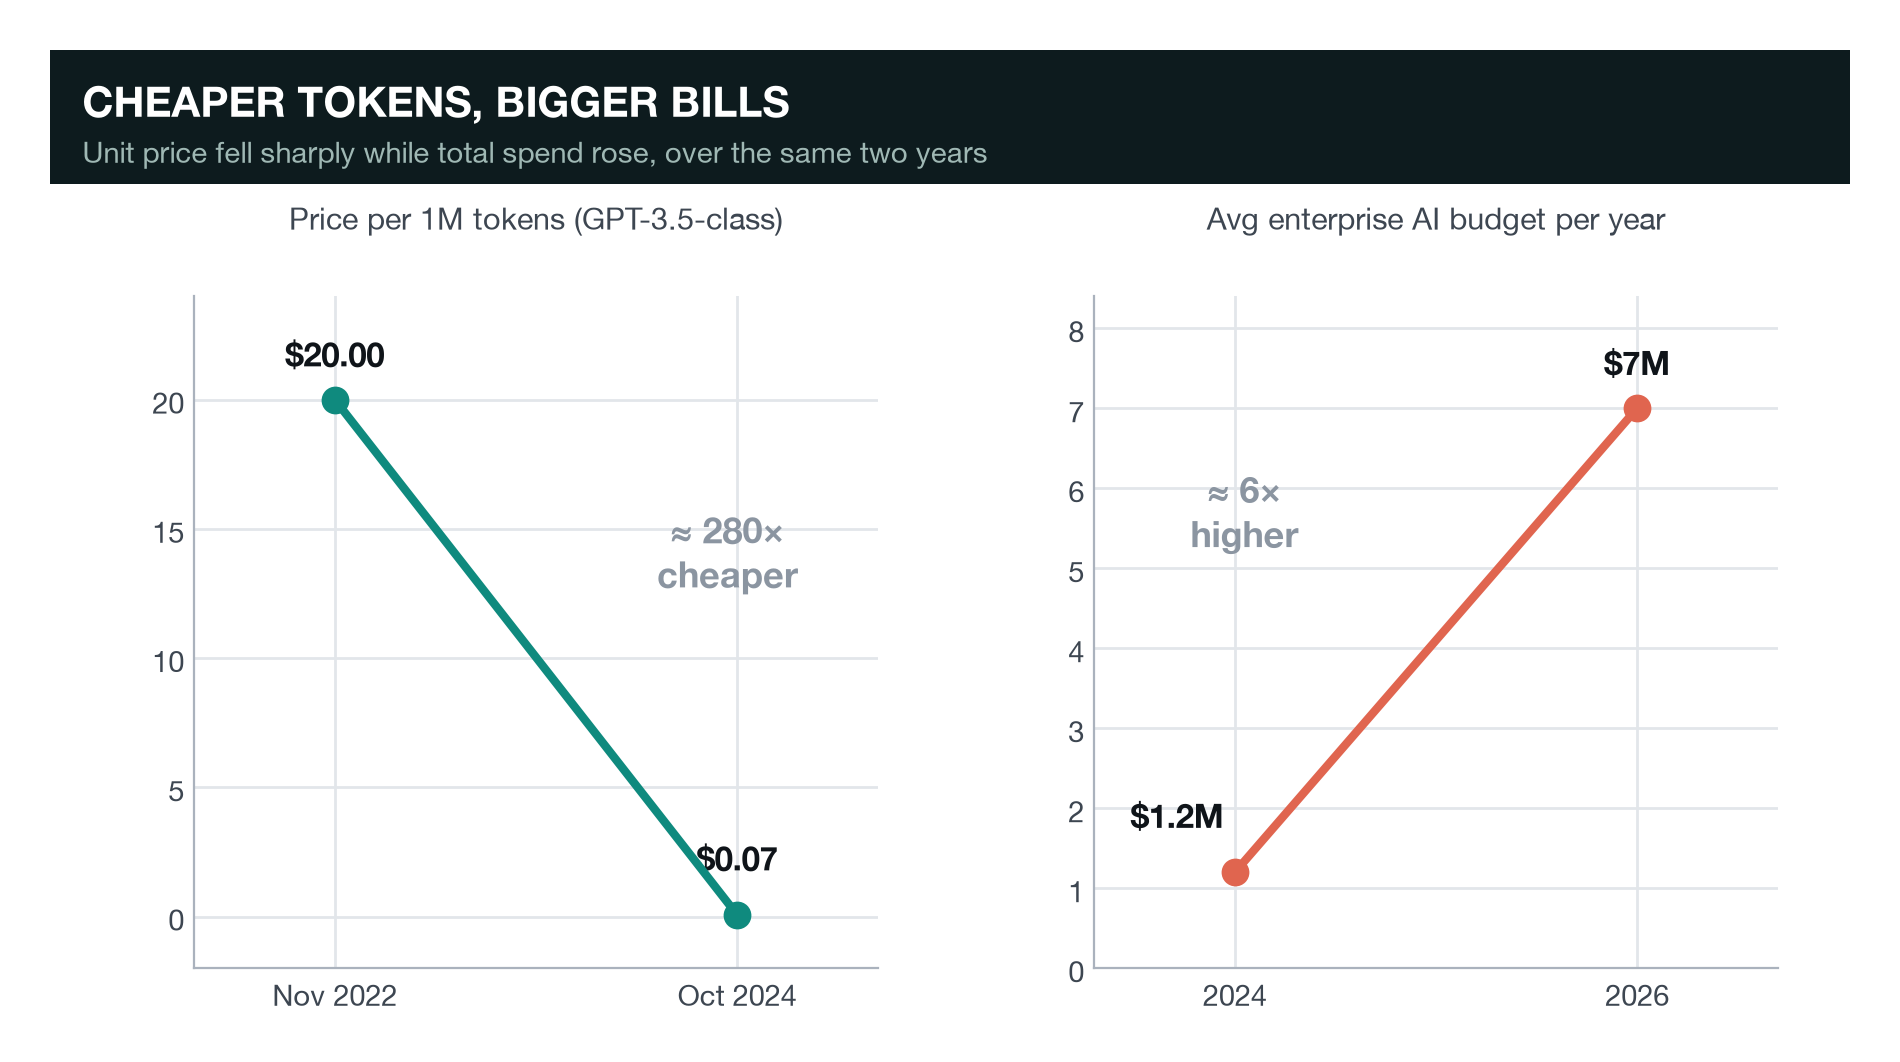
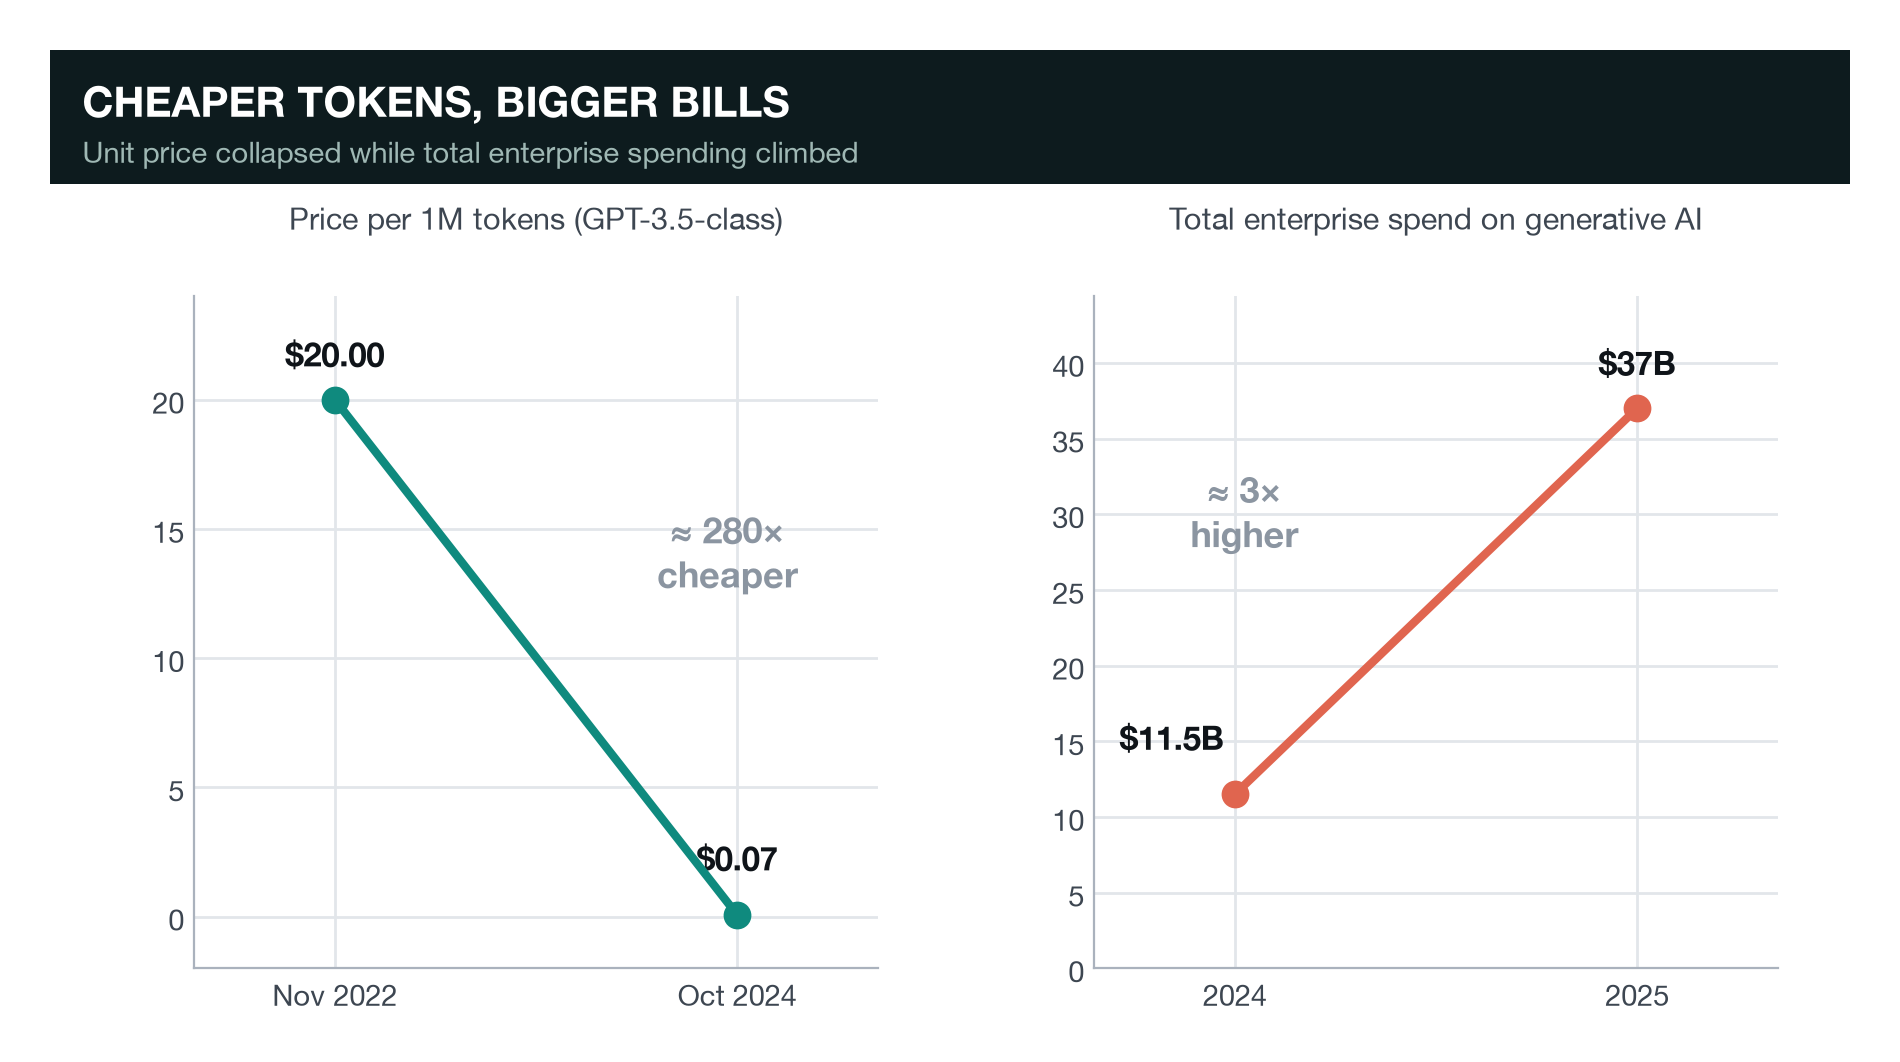
Replace unverified Chart C spend figure with sourced Menlo data (.5B->B)

diff --git a/src/chart_data.py b/src/chart_data.py
@@ -107,20 +107,21 @@ CROSSOVER = {
 # ---------------------------------------------------------------------------
 # CHART C — Cheaper tokens, bigger bills (REAL ENDPOINTS, no invented curve)
 # Drawn as two honest before/after points per series, NOT a smooth interpolation,
-# because no public monthly time-series exists. The four numbers below are real:
+# because no public monthly time-series exists. All four numbers are real:
 #
 # Token price (GPT-3.5-equivalent inference, per 1M tokens):
 #   $20.00 (Nov 2022) -> $0.07 (Oct 2024) = ~280x drop.
-#   Source: Stanford HAI AI Index 2025 (via searchenginejournal.com, medium.com/@horecny).
-# Enterprise AI budget (average, per year):
-#   $1.2M (2024) -> $7M (2026) = ~5.8x rise.
-#   Source: FinOps Foundation 2026 State of FinOps (via oplexa.com).
-# Headline framing "280x down / 320% up over two years": oplexa.com.
+#   Source: Stanford HAI AI Index 2025, Ch.1 (Research & Development).
+#   hai.stanford.edu/ai-index/2025-ai-index-report/research-and-development
+# Total enterprise generative-AI spend (market-wide, per year):
+#   $11.5B (2024) -> $37B (2025) = 3.2x rise.
+#   Source: Menlo Ventures, "2025: The State of Generative AI in the Enterprise"
+#   menlovc.com/perspective/2025-the-state-of-generative-ai-in-the-enterprise
 DIVERGENCE = {
     "price_start": 20.00, "price_start_label": "Nov 2022",
     "price_end":   0.07,  "price_end_label":   "Oct 2024",
-    "spend_start": 1.2,   "spend_start_label": "2024",   # $M/yr
-    "spend_end":   7.0,   "spend_end_label":   "2026",   # $M/yr
+    "spend_start": 11.5,  "spend_start_label": "2024",   # $B, enterprise GenAI spend
+    "spend_end":   37.0,  "spend_end_label":   "2025",   # $B
 }
 
 # ---------------------------------------------------------------------------

diff --git a/src/make_charts.py b/src/make_charts.py
@@ -174,7 +174,7 @@ def chart_divergence():
     hax.add_patch(plt.Rectangle((0,0),1,1, transform=hax.transAxes, color=HEADER, zorder=0))
     hax.text(0.018, 0.62, "CHEAPER TOKENS, BIGGER BILLS", transform=hax.transAxes,
              ha="left", va="center", color=HEADERTX, fontsize=15, fontweight="bold", family=DISPLAY)
-    hax.text(0.018, 0.24, "Unit price fell sharply while total spend rose, over the same two years",
+    hax.text(0.018, 0.24, "Unit price collapsed while total enterprise spending climbed",
              transform=hax.transAxes, ha="left", va="center", color=SUB, fontsize=10.5)
 
     axL = fig.add_axes([0.08, 0.18, 0.38, 0.60])
@@ -204,14 +204,14 @@ def chart_divergence():
     axR.plot([0,1], [d["spend_start"], d["spend_end"]], color=CORAL, lw=3,
              marker="o", markersize=9, zorder=5)
     axR.set_xticklabels([d["spend_start_label"], d["spend_end_label"]], color=TXT)
-    axR.annotate(f"${d['spend_start']:.1f}M", (0, d["spend_start"]), xytext=(-4,16),
+    axR.annotate(f"${d['spend_start']:.1f}B", (0, d["spend_start"]), xytext=(-4,16),
                  textcoords="offset points", ha="right", fontsize=12, fontweight="bold", color=INK)
-    axR.annotate(f"${d['spend_end']:.0f}M", (1, d["spend_end"]), xytext=(0,12),
+    axR.annotate(f"${d['spend_end']:.0f}B", (1, d["spend_end"]), xytext=(0,12),
                  textcoords="offset points", ha="center", fontsize=12, fontweight="bold", color=INK)
     axR.set_ylim(0, d["spend_end"]*1.2)
-    axR.text(0.22, 0.68, "≈ 6×\nhigher", transform=axR.transAxes, ha="center",
+    axR.text(0.22, 0.68, "≈ 3×\nhigher", transform=axR.transAxes, ha="center",
              va="center", fontsize=13, color=MUTE, fontweight="bold")
-    axR.set_title("Avg enterprise AI budget per year", fontsize=11, color=TXT, pad=24)
+    axR.set_title("Total enterprise spend on generative AI", fontsize=11, color=TXT, pad=24)
 
     _save(fig, "charts/chartC_divergence.png")
 